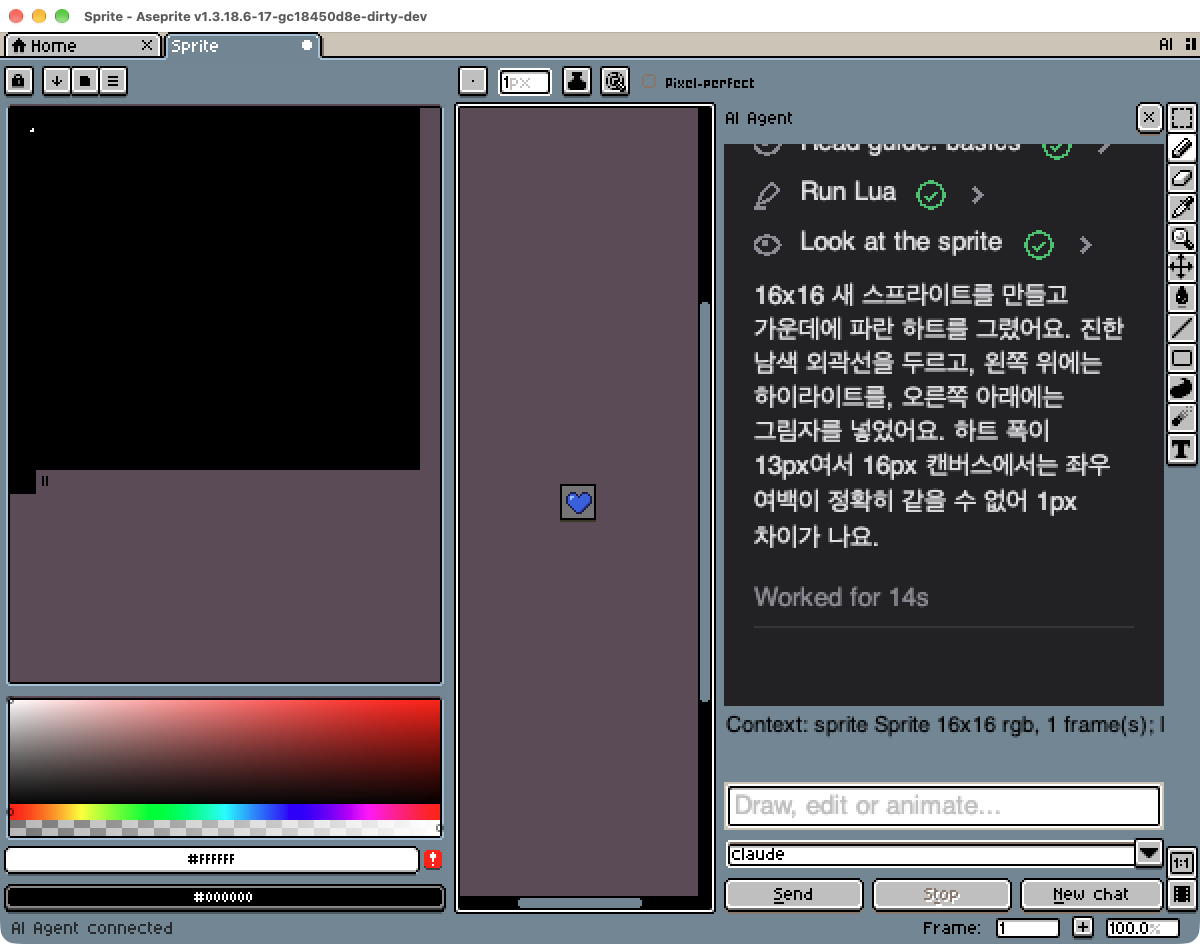
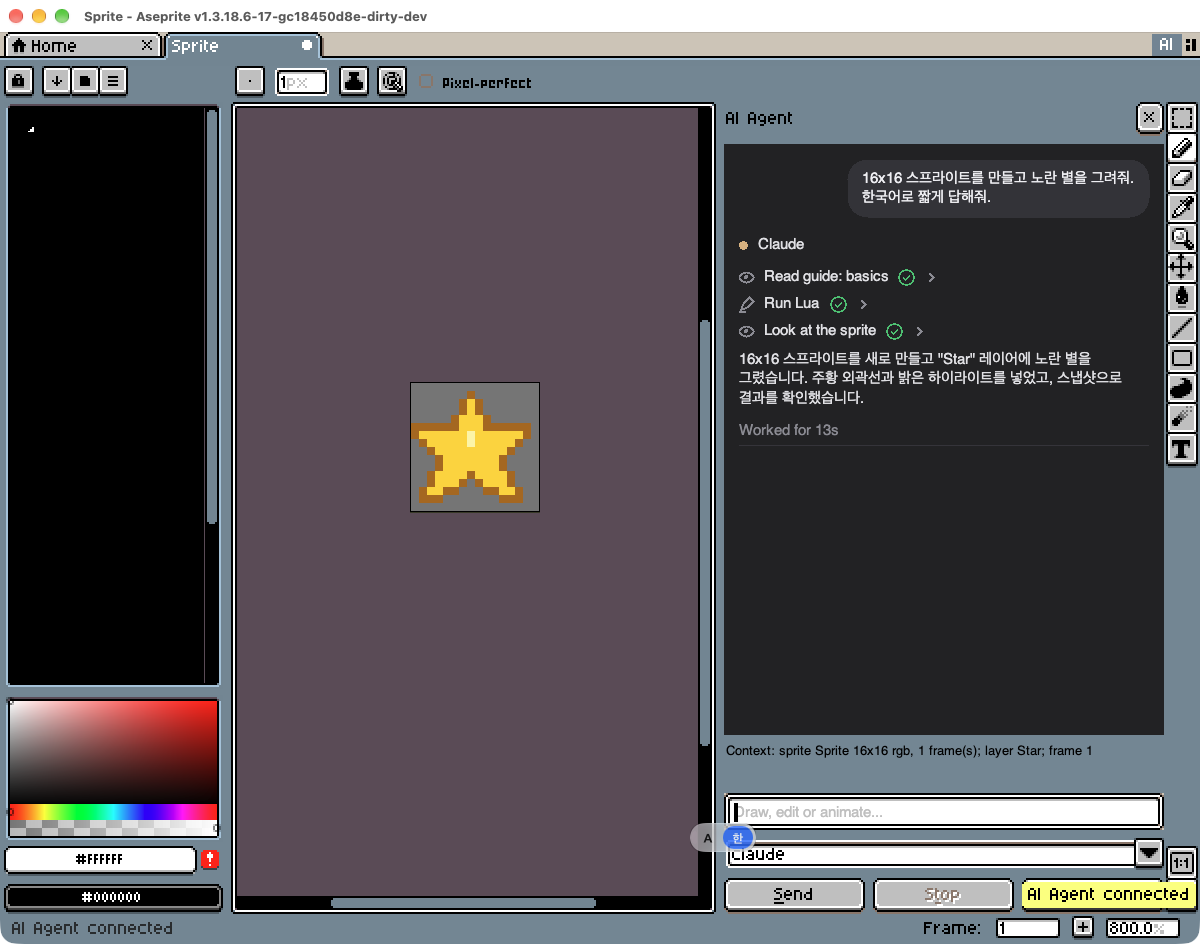
Chat panel: smaller system font, correct dock width at UI scale
Size the panel's system font relative to the UI scale so it matches
Aseprite's own text, and convert the saved panel width from UI units to
pixels when docking (it was half as wide at 200% UI scale). Document
Screen Scaling 100% + UI Elements Scaling 200% for full-resolution text.

diff --git a/src/app/ui/main_window.cpp b/src/app/ui/main_window.cpp
@@ -854,7 +854,9 @@ void MainWindow::dockScriptPanel(ScriptPanel* panel)
   const bool horizontal = (side == ui::LEFT || side == ui::RIGHT);
   const int extent =
     get_config_int(kScriptPanelsSection, (id + ".size").c_str(), horizontal ? 220 : 160);
-  const gfx::Size size = horizontal ? gfx::Size(extent, 0) : gfx::Size(0, extent);
+  // The config stores UI units; the dock works in pixels.
+  const int px = extent * ui::guiscale();
+  const gfx::Size size = horizontal ? gfx::Size(px, 0) : gfx::Size(0, px);
 
   m_customizableDock->dockRelativeTo(m_workspace.get(), side, panel, size);
   updateAgentButton();

diff --git a/agent/README.md b/agent/README.md
@@ -44,7 +44,7 @@ agent/extension/  (Aseprite Lua extension)
 
 Click the **AI** button at the top right (left of the workspace layout button), or use **File > Scripts > AI Agent > Toggle Chat Panel**. In this fork the panel docks next to the canvas (see [docs/native-panel.md](docs/native-panel.md)); in stock Aseprite it floats.
 
-Your messages appear as bubbles on the right. Each agent turn shows its steps the way Claude Code does: "Thought for 3s", one row per tool call with a check mark when it succeeds, the reply, and "Worked for 14s". Click a row to see the tool's input and output. The input box wraps and grows up to five lines; **Enter** sends and **Shift+Enter** adds a line. Text uses the system font, and Korean and other input methods compose normally.
+Your messages appear as bubbles on the right. Each agent turn shows its steps the way Claude Code does: "Thought for 3s", one row per tool call with a check mark when it succeeds, the reply, and "Worked for 14s". Click a row to see the tool's input and output. The input box wraps and grows up to five lines; **Enter** sends and **Shift+Enter** adds a line. Text uses the system font, and Korean and other input methods compose normally. For sharp text, use Screen Scaling 100% with UI Elements Scaling 200% (see [INSTALL.md](docs/INSTALL.md#troubleshooting)).
 
 Choose `claude` or `codex`; the bridge runs that CLI with your own login and keeps the conversation going until you click **New chat**. Every message includes what you have selected (layer, frame, timeline range, pixel selection), so "this layer" and "the selected frames" work.
 

diff --git a/agent/docs/INSTALL.md b/agent/docs/INSTALL.md
@@ -43,6 +43,7 @@ Start a session and ask, for example: "Make a 32×32 sprite with a red circle on
 | Panel says "No bridge found" | Run your agent once with the `aseprite` MCP server so the extension learns the bridge path. |
 | Panel says "The bridge did not start" | Read `~/.aseprite-agent/daemon.log`. Usually `node` is not on your login shell's `PATH`. |
 | Codex tool calls fail with an approval message | The panel pre-approves the `aseprite` server's tools. In your own Codex sessions, approve them when asked, or set `default_tools_approval_mode = "approve"` under `[mcp_servers.aseprite]`. |
+| Chat text looks blurry | Aseprite draws its UI at reduced resolution when **Screen Scaling** is above 100%. Set **Edit > Preferences > General > Screen Scaling = 100%** and **UI Elements Scaling = 200%**: the UI keeps its size and the panel text renders at full resolution. |
 | Two agent sessions | The newest bridge takes over Aseprite; when it exits, the previous one reconnects. |
 
 ## Security
